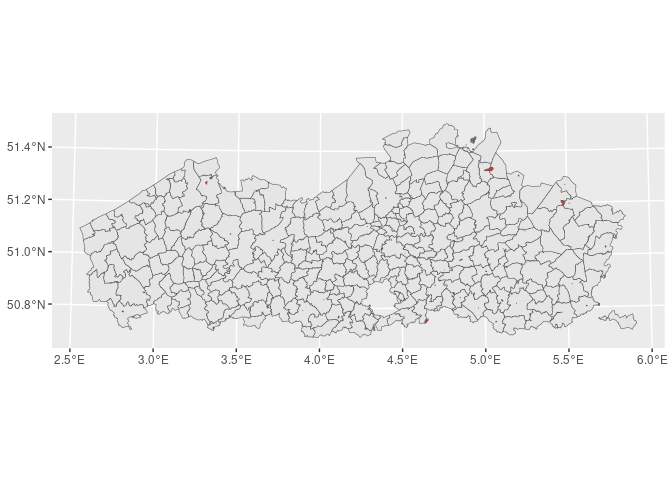
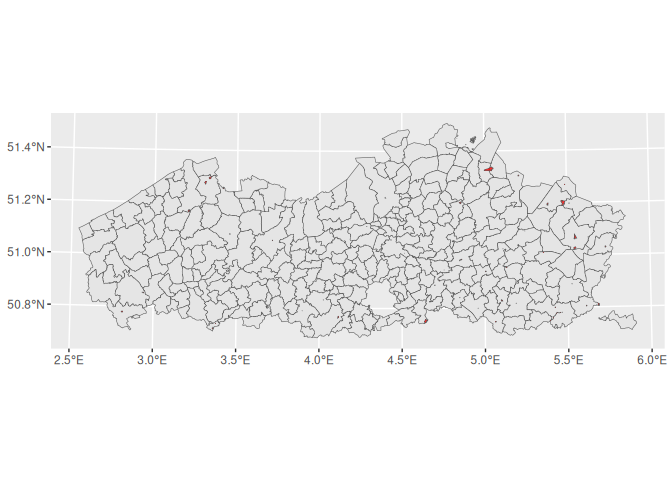
Fix documentation
- add pkgdown
- update docs, fix typos and parameter docs
- fix version issue in `oe_vrbg_supported_crs`
- update Package metadata and README

diff --git a/README.md b/README.md
@@ -4,6 +4,7 @@
 # roeference
 
 <!-- badges: start -->
+
 <!-- badges: end -->
 
 This package provides helper functions to download and load some Flemish
@@ -28,17 +29,17 @@ reference datasets:
 ``` r
 library(roeference)
 
-# Get a Simple Features object containging the Flemish municipalities and
-# their boundries
+# Get a Simple Features object containing the Flemish municipalities and
+# their boundaries
 municipalities <- get_vrbg_sf()
 
-# Get a Simple Features object containging the Flemish municipalities and
-# their boundries
-provinces <- get_vrbg_sf(collection = 'Refprv')
+# Get a Simple Features object containing the Flemish municipalities and
+# their boundaries
+provinces <- get_vrbg_sf(collection = "Refprv")
 
 # Get a Simple Features object containing the protected archaeological
-# sites in Flanders and their boundries
-protected_arch_sites <- get_oe_aanduidingsobjecten(layer = 'bes_arch_site')
+# sites in Flanders and their boundaries
+protected_arch_sites <- get_oe_aanduidingsobjecten(layer = "bes_arch_site")
 ```
 
 The functions provided in this package will take care of downloading and
@@ -49,12 +50,12 @@ in analysis or plotting.
 ``` r
 library(ggplot2)
 library(sf)
-#> Linking to GEOS 3.10.2, GDAL 3.4.1, PROJ 8.2.1; sf_use_s2() is TRUE
+#> Linking to GEOS 3.14.1, GDAL 3.12.2, PROJ 9.7.1; sf_use_s2() is TRUE
 
 p <- ggplot(protected_arch_sites) +
-       geom_sf(data = municipalities) +
-       geom_sf(fill='red', alpha=0.8)
+  geom_sf(data = municipalities) +
+  geom_sf(fill = "red", alpha = 0.8)
 p
 ```
 
-<img src="man/figures/README-cars-1.png" width="100%" />
+<img src="man/figures/README-cars-1.png" alt="" width="100%" />
